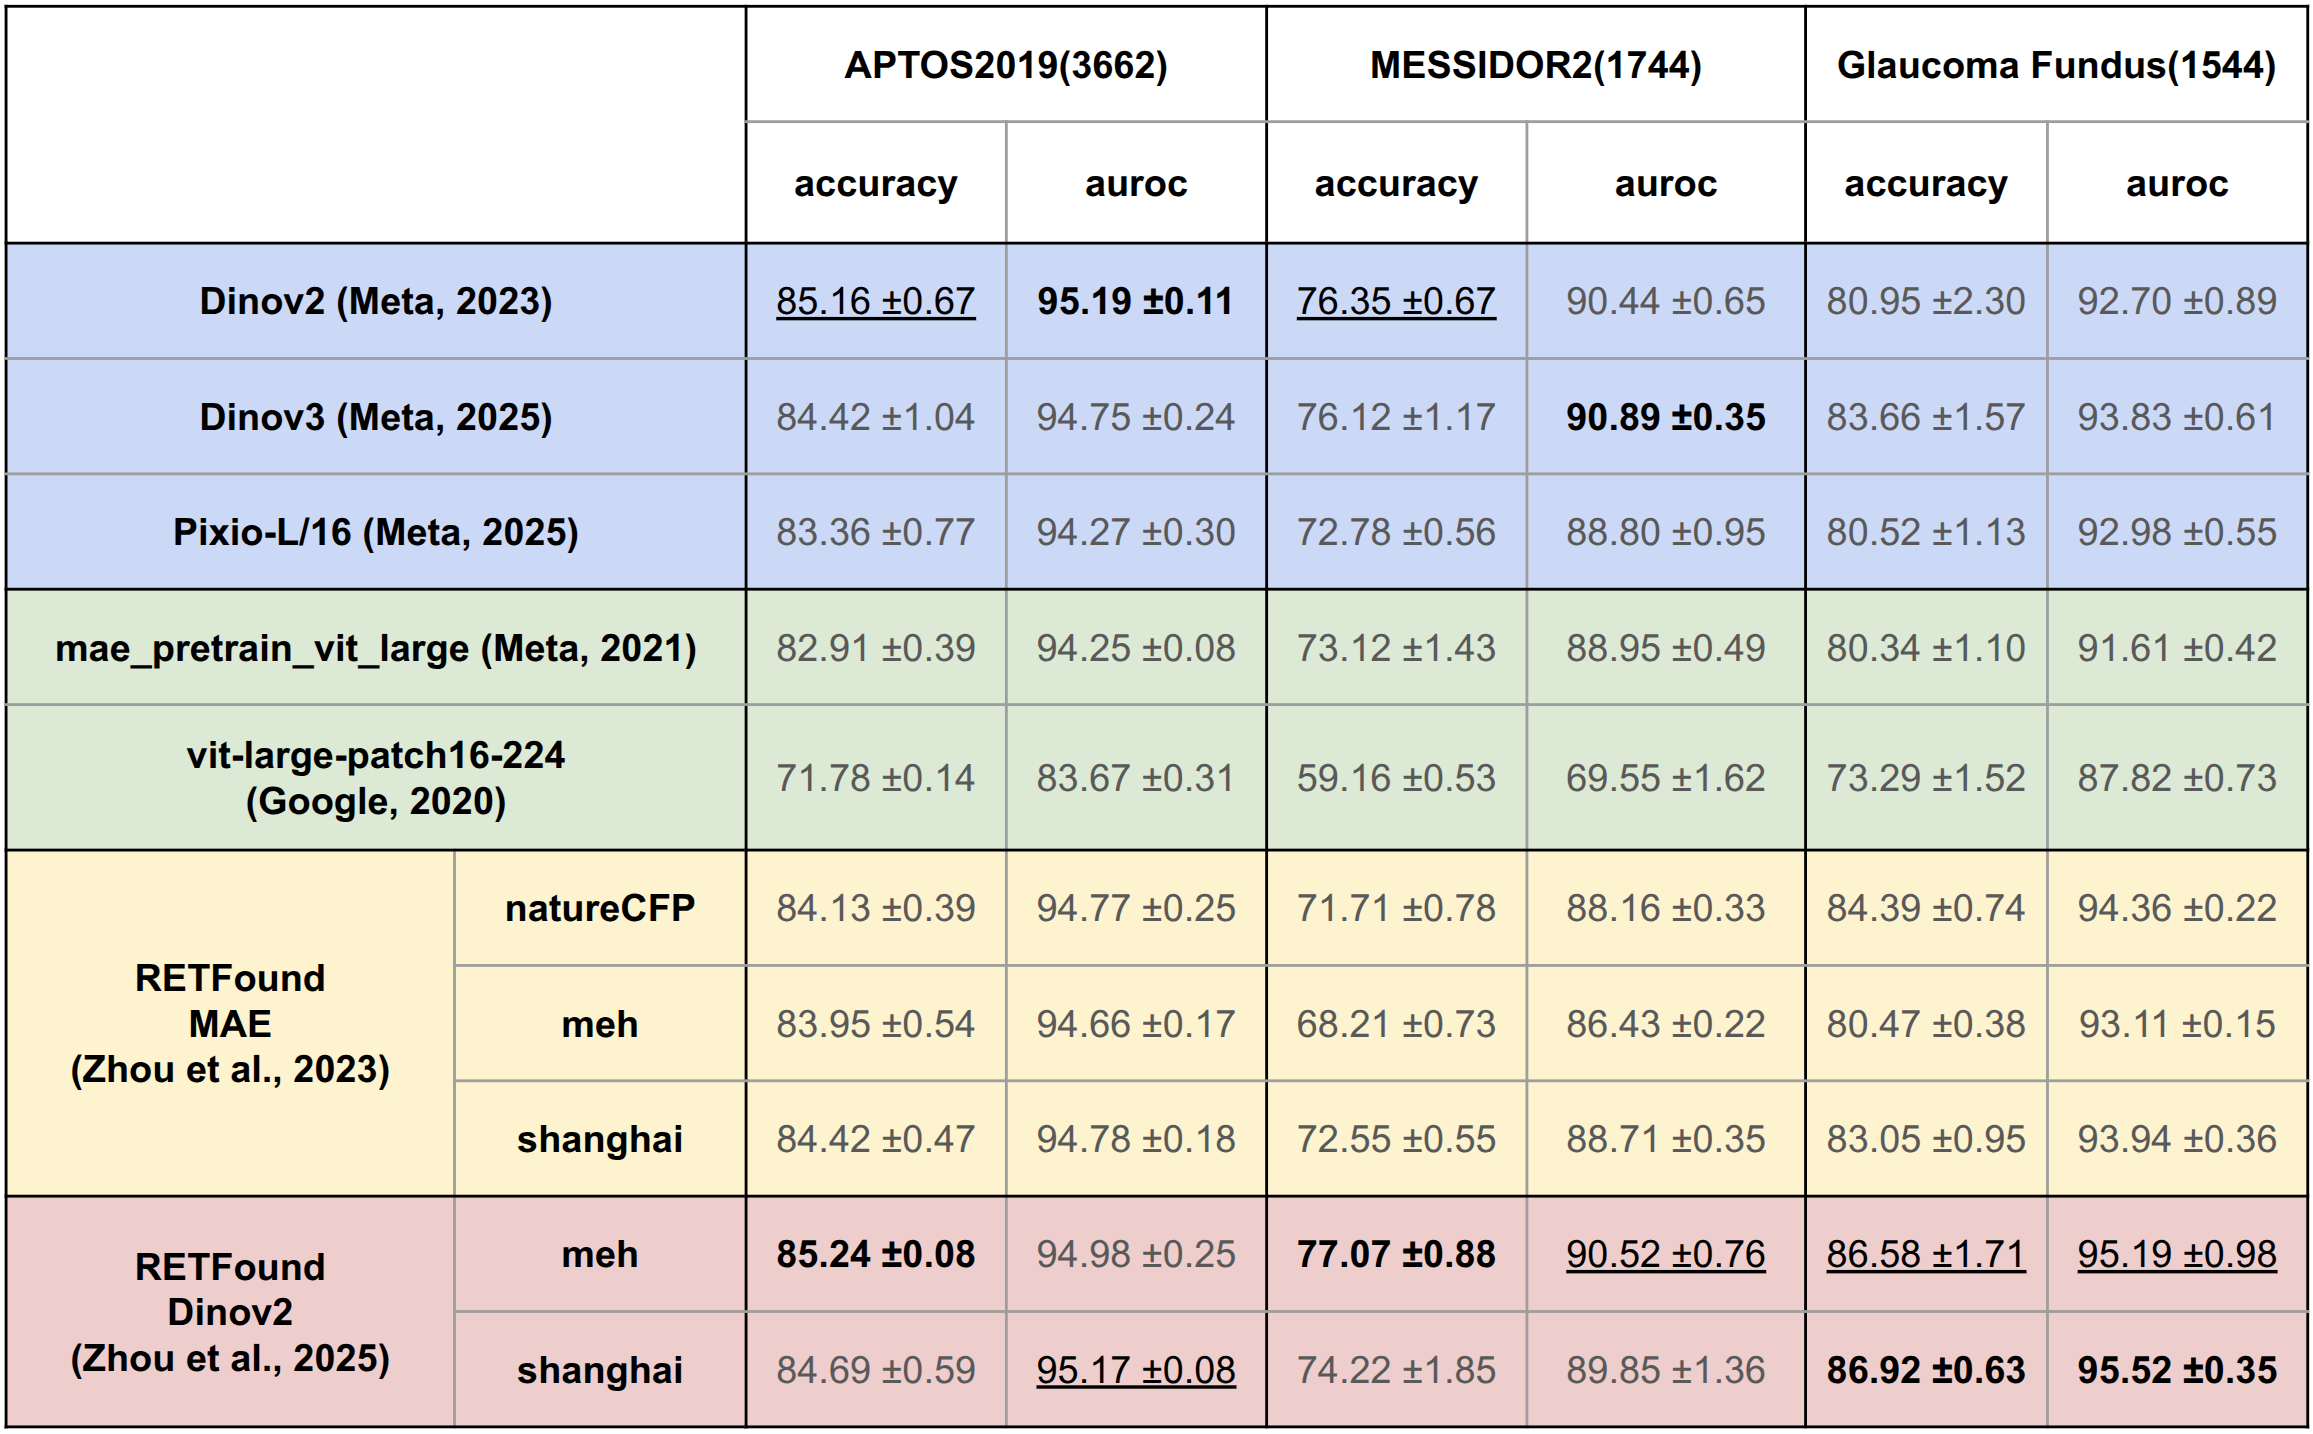
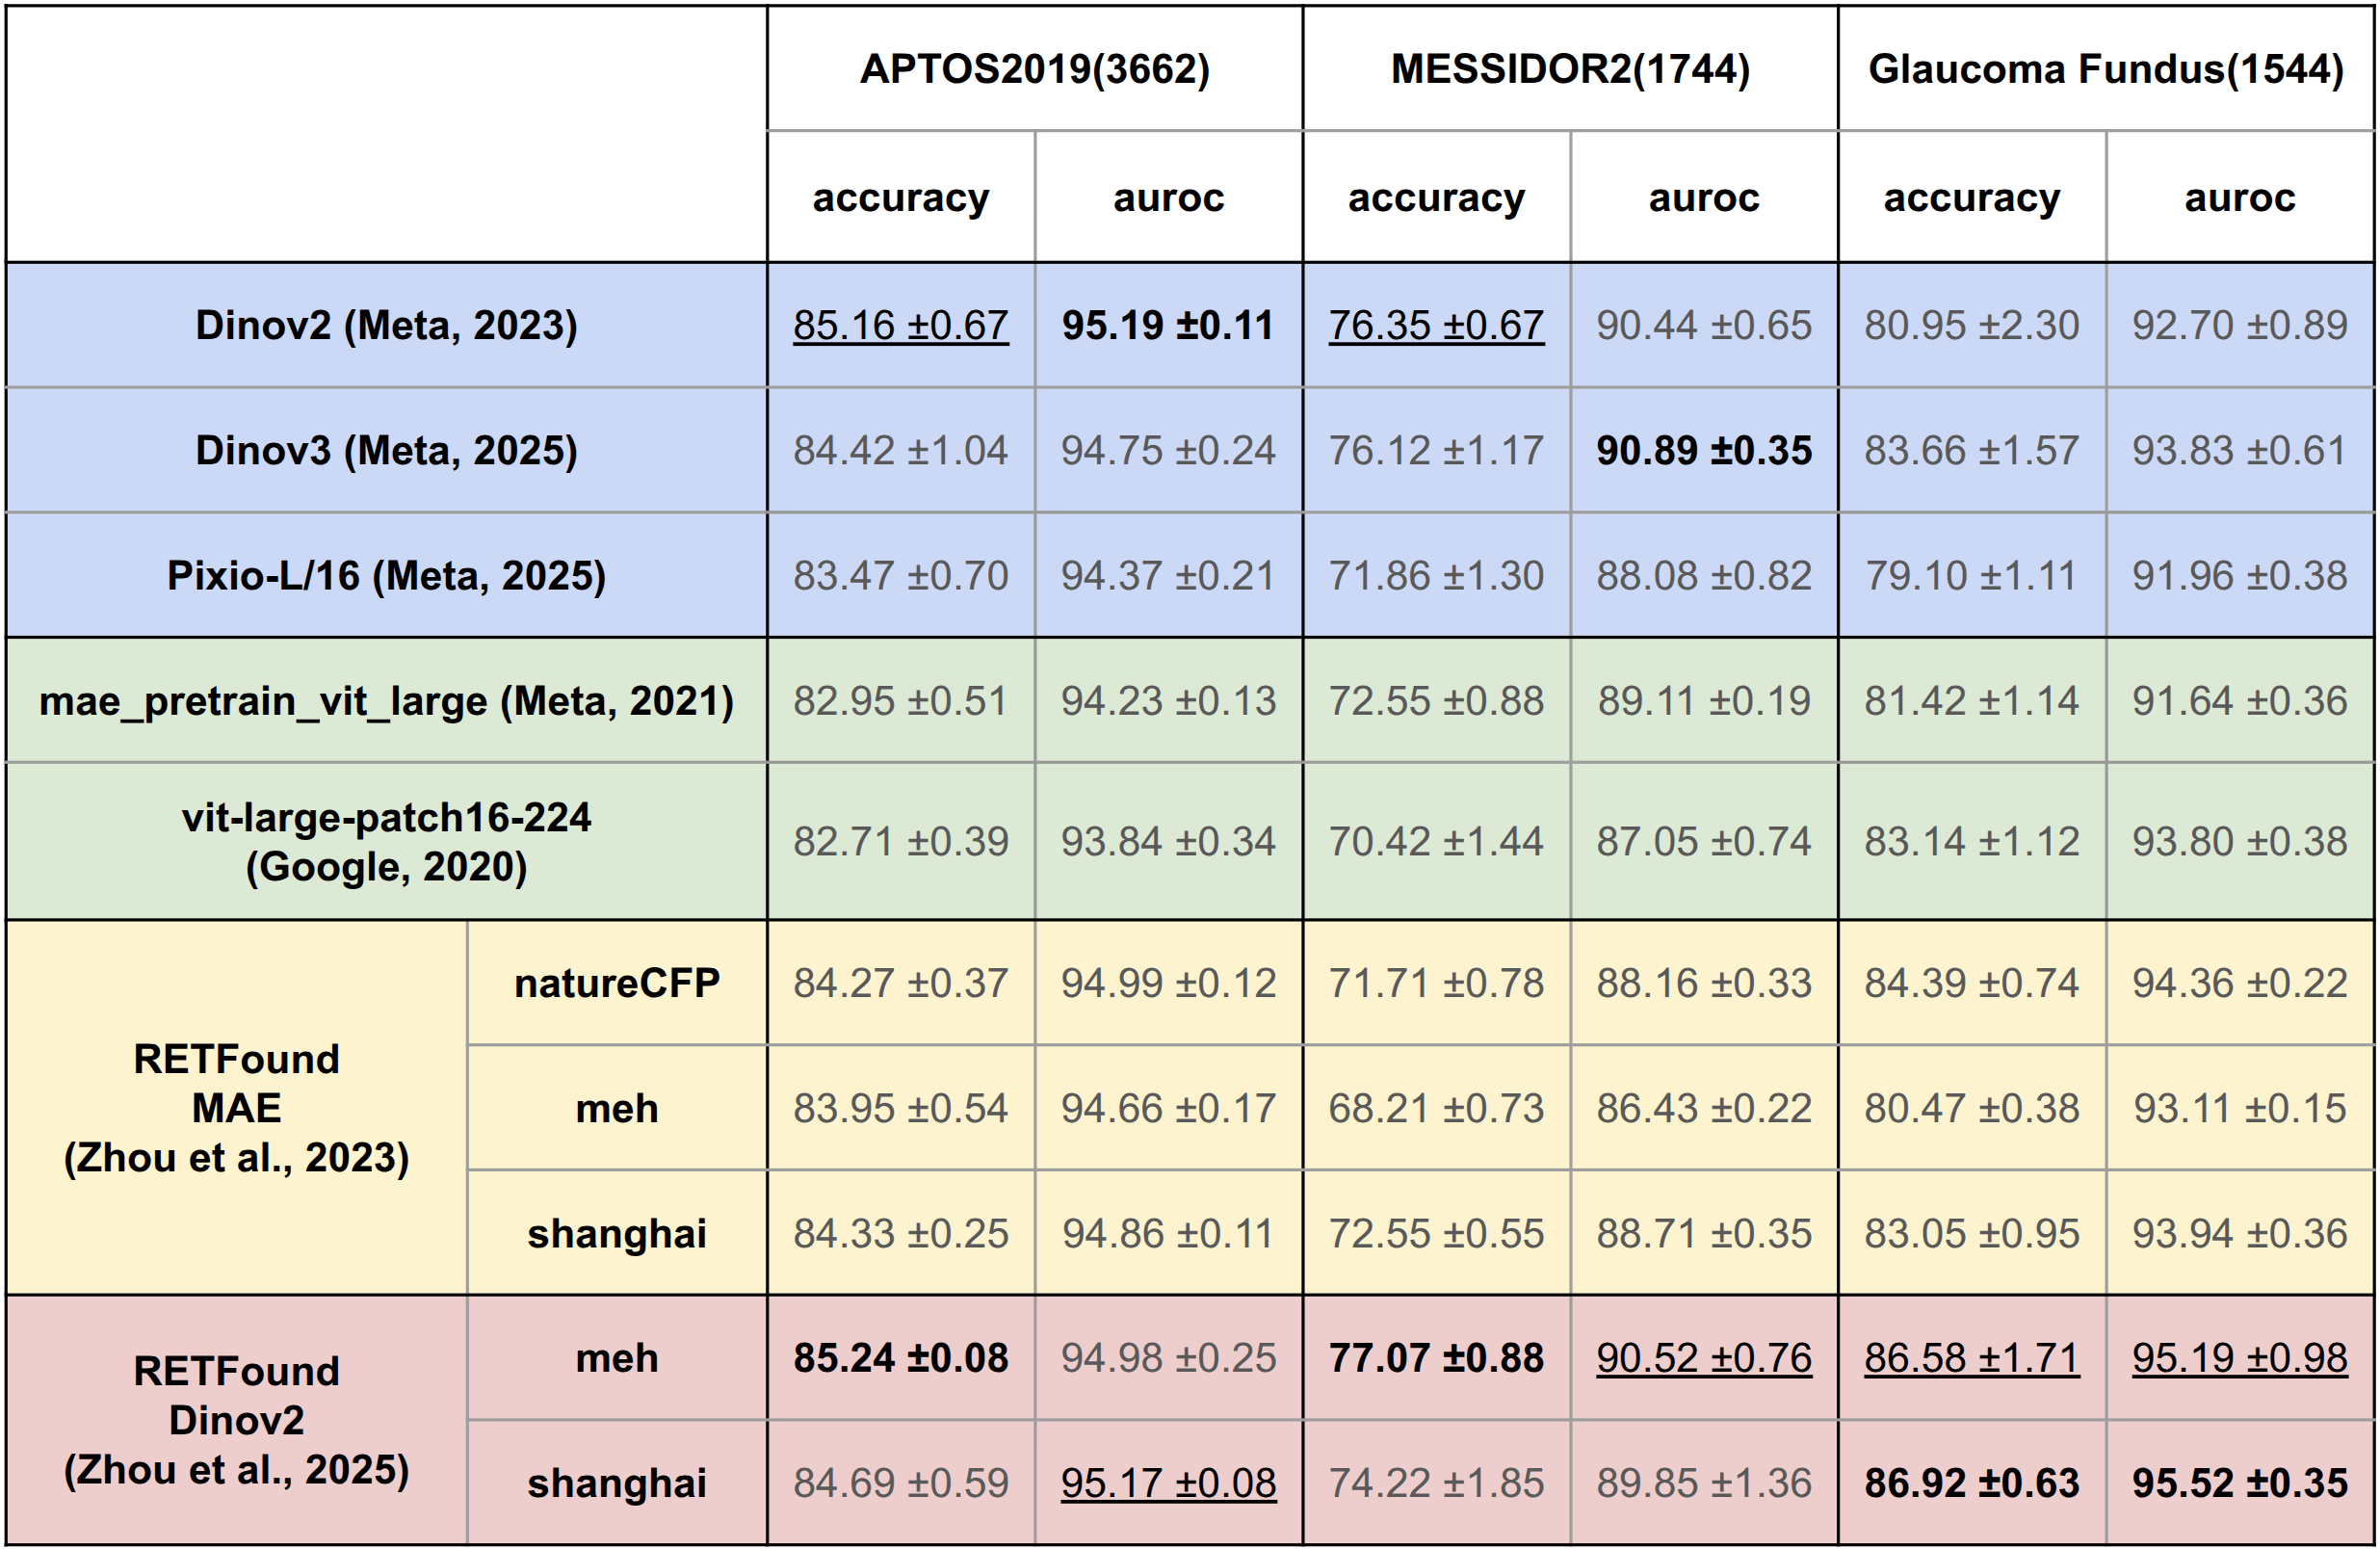
Update readme.md

diff --git a/README_EN.md b/README_EN.md
@@ -1,0 +1,198 @@
+## Multistage Modular Medical Models (M4)
+
+[ENGLISH](README_EN.md) | [中文](README.md)
+
+This project focuses on "Beyond Scaling Law, emphasizing data efficiency and reliability" as its core research theme. It aims to establish a modular visual foundation model (M4, Modular Medical Foundation Models) suitable for medical imaging, addressing critical challenges such as data scarcity, high annotation costs, and privacy constraints in real-world medical scenarios.
+
+Traditional AI development relies on massive data and model scaling, which is often impractical in the medical field. This project adopts a "strategy over scale" approach, combining Self-Supervised Learning, Multi-stage Transfer Learning, and Task-specific Fine-Tuning to enable AI to gradually learn and develop clinically valuable medical semantic understanding capabilities with minimal expert-annotated data.
+
+## Notice and License Statement
+
+This project is based on the following code:
+
+Source: https://github.com/rmaphoh/RETFound
+
+License: Creative Commons Attribution-NonCommercial 4.0 International (CC BY-NC 4.0)
+
+Modifications:
+- Added support for Pixio-L/16, mae_pretrain_vit_large, and vit-large-patch16-224.
+- Added scripts for automated experiment execution.
+- Changed to use 5-fold validation for experimental evaluation.
+- Added Supervised Fine-Tuning scripts.
+
+## Install environment
+
+1. Create a conda environment
+
+```
+conda create -n M4 python=3.11.0 -y
+conda activate M4
+```
+
+2. Install dependencies
+
+```
+pip install torch==2.5.1 torchvision==0.20.1 --index-url https://download.pytorch.org/whl/cu121
+pip install -r requirements.txt
+```
+
+## Baseline Models
+
+The following 10 models are used as baselines. Except for the RETFound model, please download the model weights and place them in the `baseline_models` folder. For the RETFound model, refer to the [official GitHub](https://github.com/rmaphoh/RETFound).
+
+- [Dinov2 ViT-L/14 distilled (Meta, 2023)](https://github.com/facebookresearch/dinov2)
+- [dinov3-vitl16-pretrain-lvd1689m (Meta, 2025)](https://github.com/facebookresearch/dinov3)
+- [Pixio-L/16 (Meta, 2025)](https://github.com/facebookresearch/pixio)
+- [mae_pretrain_vit_large (Meta, 2021)](https://github.com/facebookresearch/mae)
+- [vit-large-patch16-224 (Google, 2020)](https://github.com/huggingface/pytorch-image-models)
+- [RETFound_mae_natureCFP (Zhou et al., 2023)](https://github.com/rmaphoh/RETFound)
+- [RETFound_mae_meh (Zhou et al., 2023)](https://github.com/rmaphoh/RETFound)
+- [RETFound_mae_shanghai (Zhou et al., 2023)](https://github.com/rmaphoh/RETFound)
+- [RETFound_dinov2_meh (Zhou et al., 2025)](https://github.com/rmaphoh/RETFound)
+- [RETFound_dinov2_shanghai (Zhou et al., 2025)](https://github.com/rmaphoh/RETFound)
+
+## Dataset
+
+### Fundus Datasets
+
+| Dataset Name       | Size         | Source                                                                                             |
+| :----------------- | :----------- | :------------------------------------------------------------------------------------------------ |
+| APTOS2019          | 3,662 images | [Kaggle Link](https://www.kaggle.com/competitions/aptos2019-blindness-detection/data)             |
+| MESSIDOR2          | 1,748 images | [ADCIS Link](https://www.adcis.net/en/third-party/messidor2/)                                     |
+| Glaucoma_fundus    | 1,544 images | [Harvard Dataverse Link](https://dataverse.harvard.edu/dataset.xhtml?persistentId=doi:10.7910/DVN/1YRRAC) |
+| Retina (Cataract)  | 601 images   | [Kaggle Link](https://www.kaggle.com/datasets/jr2ngb/cataractdataset)                             |
+| IDRID              | 516 images   | [IEEE Dataport Link](https://ieee-dataport.org/open-access/indian-diabetic-retinopathy-image-dataset-idrid) |
+| PAPILA             | 488 images   | [Figshare Link](https://figshare.com/articles/dataset/PAPILA/14798004/1)                          |
+
+[Download 5-fold split method](https://drive.google.com/drive/folders/11euRYSptEpS9UQDAVP3UJ4vi4RINHvzx?usp=sharing)
+
+After downloading the dataset, split it according to the provided 5-fold list and place it in the `data` folder. For example, place fold1 of the ATPOS2019 dataset in `data/5_fold_APTOS2019/APTOS2019_seed42_fold0`.
+
+### Supervised Fine-Tuning Datasets
+
+| Dataset Name       | Size         | Source                                                                                             |
+| :----------------- | :----------- | :------------------------------------------------------------------------------------------------ |
+| Augmented Ocular Disease (AOD) | 14,105 images | [GitHub Link](https://github.com/openmedlab/Awesome-Medical-Dataset/blob/main/resources/AOD.md) |
+| Imagenet-1k        | 1,281,167 images | [Huggingface Dataset Link](https://huggingface.co/datasets/ILSVRC/imagenet-1k)                   |
+
+After downloading, place the datasets in the `data` folder. Preprocess Imagenet-1k into the following format. By default, all data is used as training data for SFT experiments.
+
+```
+imagenet/  
+├── train/  
+│ ├── class_0/  
+│ │ ├── img_0001.jpg  
+│ │ └── img_0002.jpg  
+│ └── class_1/  
+│ ├── img_0005.jpg  
+│ └── img_0006.jpg  
+├── val/  
+│ ├── class_0/  
+│ │ ├── img_0007.jpg  
+│ │ └── img_0008.jpg  
+│ └── class_1/  
+│ ├── img_0011.jpg  
+│ └── img_0012.jpg  
+└── test/  
+	├── class_0/  
+	│ ├── img_0013.jpg  
+	│ └── img_0014.jpg  
+	└── class_1/  
+	├── img_0017.jpg  
+	└── img_0018.jpg
+```
+
+## Run training
+
+```python
+# Run the following command to test downstream tasks
+python script.py
+
+# Run the following command for SFT training
+python SFT_script.py
+```
+
+## Exp1: Performance of baseline models
+
+### Experimental Setup
+
+- **5-fold:** Each dataset undergoes 5-fold testing. Each model is trained once for each of the 5 folds. The model with the highest validation score for each fold is used for test set evaluation. The average and standard deviation of the test scores across the 5 folds are used as the evaluation criteria.
+- **Validation details:** During fine-tuning on downstream tasks, validation is performed once per epoch. The checkpoint with the highest f1+auroc+kappa score is selected as the best validation and used for test set evaluation.
+- **Hyper-parameters:** The following three hyper-parameter settings are used for testing, and the best-performing results are reported in the experimental results table.
+   1. [RETFound default hyper-parameters](https://github.com/rmaphoh/RETFound)
+   2. [RetFound paper settings (2025 version)](https://arxiv.org/abs/2509.03421)
+   3. [Meta MAE fine-tune settings](https://github.com/facebookresearch/mae)
+
+Key differences in hyper-parameters are as follows:
+
+| Hyper-parameter | RETFound Default | RETFound Paper | MAE Default |
+| :-------------- | :--------------- | :------------- | :---------- |
+| **Batch Size**  | 24              | 24            | 64          |
+| **Base Learning Rate** | 5e-3       | 5e-4         | 1e-3        |
+| **Drop Path**   | 0.2             | 0.2           | 0.1         |
+| **Layer Decay** | 0.65            | 0.65          | 0.75        |
+
+The effects of different hyper-parameters using RETFound_dinov2_meh are compared in the table below. **Smaller learning rate settings** may yield better performance.
+
+| Model / Setting            | APTOS2019 (3662) | MESSIDOR2 (1744) | Glaucoma Fundus (1544) | Retina (601)    | IDRiD Data (516) | PAPILA (488)    |
+| :------------------------- | :--------------- | :--------------- | :--------------------- | :-------------- | :--------------- | :-------------- |
+| **RETFound Default**       | 85.13 ±0.56      | 76.31 ±1.09      | 86.45 ±0.73            | **73.04 ±3.28** | 62.33 ±3.02      | 81.84 ±3.34     |
+| **RETFound Paper**         | **85.24 ±0.08**  | 76.84 ±1.08      | 82.84 ±0.88            | 70.50 ±3.28     | **65.63 ±2.96**  | **84.08 ±3.19** |
+| **MAE Default**            | 85.16 ±0.67      | **77.07 ±0.88**  | **86.92 ±0.63**        | 71.16 ±1.72     | 62.91 ±4.63      | 82.65 ±3.31     |
+
+### Experimental results 
+
+Baseline performance comparison is shown in the tables below:
+
+![[assets/Exp1-1.png]](assets/Exp1-1.png)
+
+![[assets/Exp1-2.png]](assets/Exp1-2.png)
+
+## Summary
+
+- RetFound dinov2 meh significantly outperforms other models.
+- Among natural image models, dinov3 performs the best, followed by dinov2.
+- Models pre-trained using MAE-based methods, whether natural image models or RetFound's continual pretraining, perform worse than the Dino series.
+
+## Exp2: Supervised Fine-Tuning (SFT)
+
+Fine-tune pre-trained models on Imagenet-1k and AOD datasets and compare the two.
+
+### Experimental Setup
+
+- Downstream task testing is the same as Exp1, but only **RETFound default hyper-parameters** are used.
+- **Meta MAE fine-tune** hyper-parameters are used for SFT fine-tuning.
+- The AOD dataset is fine-tuned for 30 epochs, with downstream task testing every 2 epochs. The Imagenet-1k dataset is fine-tuned for 1 epoch, with only one downstream task test after fine-tuning.
+- The comparison values below are all accuracies.
+
+### Experimental results
+
+- SFT on AOD Dataset
+	![[Exp2-1_AOD.png]](assets/Exp2-1_AOD.png)
+
+- SFT on Imagenet-1k Dataset
+
+	|Model\Dataset|APTOS2019|MESSIDOR2|Glaucoma fundus|Retina|IDRID_Data|PAPILA|
+	|---|---|---|---|---|---|---|
+	|**DINOv2**|**0.8456**|**0.7681**|0.8013|0.7138|0.5786|0.7592|
+	|**DINOv3**|0.8396|0.7452|0.8370|0.7227|0.5845|0.7918|
+	|**Pixio**|0.8347|0.7308|0.7871|0.6475|0.4796|0.7306|
+	|**RetFound (meh)**|0.8451|0.7669|0.8417|**0.7448**|**0.6019**|**0.8204**|
+	|**RetFound (shanghai)**|0.8484|0.7297|**0.8529**|0.6895|0.5942|0.7959|
+
+### Computational cost
+
+According to the [RETFound paper](https://www.researchsquare.com/article/rs-6080254/v1), the resource costs for continual pretraining and SFT are compared below (using dinov2 large as the backbone model):
+
+|Method|Dataset|Training epoch|GPU|Cost Time|
+|-|-|-|-|-|
+|Continual pretraining|Moorfields Eye Hospital (MEH)|unknown|A100\*4|16 days|
+|SFT|Augmented Ocular Disease (AOD)|30|V100\*1|6 hours|
+|SFT|Imagenet-1k|1|V100\*1|4 hours|
+
+## Summary
+
+- Overall, whether fine-tuned on the AOD or Imagenet-1k datasets, dinov2 and RetFound (meh) outperform other models.
+- Fine-tuning on the AOD dataset achieves higher scores across all datasets compared to Imagenet-1k, and **models trained on Imagenet-1k do not surpass SOTA performance**.
+- Although dinov3 performs better than other natural image models without SFT, after SFT, it performs significantly worse than dinov2 on all datasets except Glaucoma_fundus.
+- Comparing the original RETFound_dinov2_meh (epoch 0) with the dinov2 model, even using the significantly lower-cost SFT method, better performance can be achieved on 4 out of 6 datasets, demonstrating that the SFT method can achieve results close to continual pretraining with lower costs.

diff --git a/README.md b/README.md
@@ -1,5 +1,7 @@
 ## Multistage Modular Medical Models (M4)
 
+[ENGLISH](README_EN.md) | [中文](README.md)
+
 本計畫以「超越 Scaling Law，以資料效率與可信賴性為核心」為研究主軸，致力於建立一套適用於醫療影像的模組化視覺基礎模型（M4, Modular Medical Foundation Models），回應真實醫療場域中資料稀缺、標註成本高與隱私限制等關鍵挑戰。
 
 傳統 AI 發展仰賴海量資料與模型規模擴張，但在醫療領域中，此路徑往往難以落實。本計畫採取「策略優於規模」的思維，結合自監督學習（Self-Supervised Learning）、多階段轉移學習（Multi-stage Transfer Learning）與任務導向微調（Task-specific Fine-Tuning），讓 AI 能在僅仰賴少量專家標註資料的情況下，逐步學習並建立具臨床價值的醫學語意理解能力。
@@ -151,7 +153,7 @@ Baseline效果比較如下表
 
 - RetFound dinov2 meh表現明顯超越其他模型
 - 在自然影像模型中dinov3表現最好，dinov2表現次之
-- 透過MAE based或Supervised Learning預訓練的模型不論自然影像模型或是Retfound的continual pretraining表現都較Dino系列更差
+- 透過MAE based預訓練的模型不論自然影像模型或是Retfound的continual pretraining表現都較Dino系列更差
 
 ## Exp2: Supervised Fune-Tuning(SFT)
 